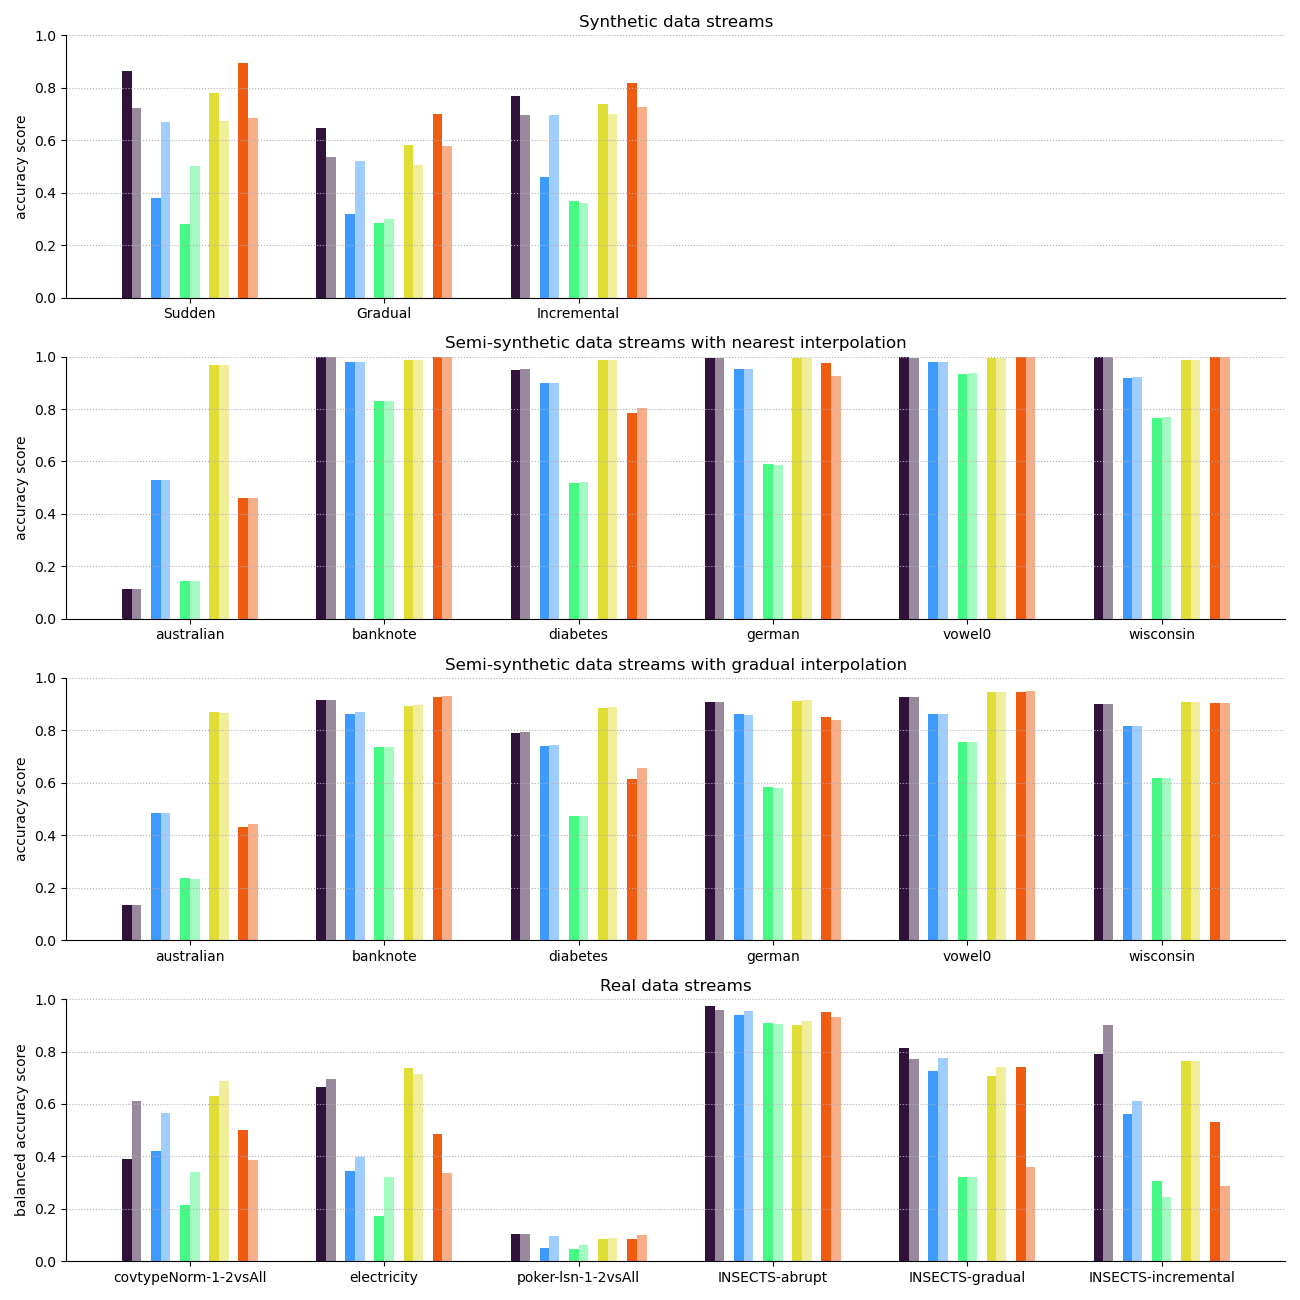
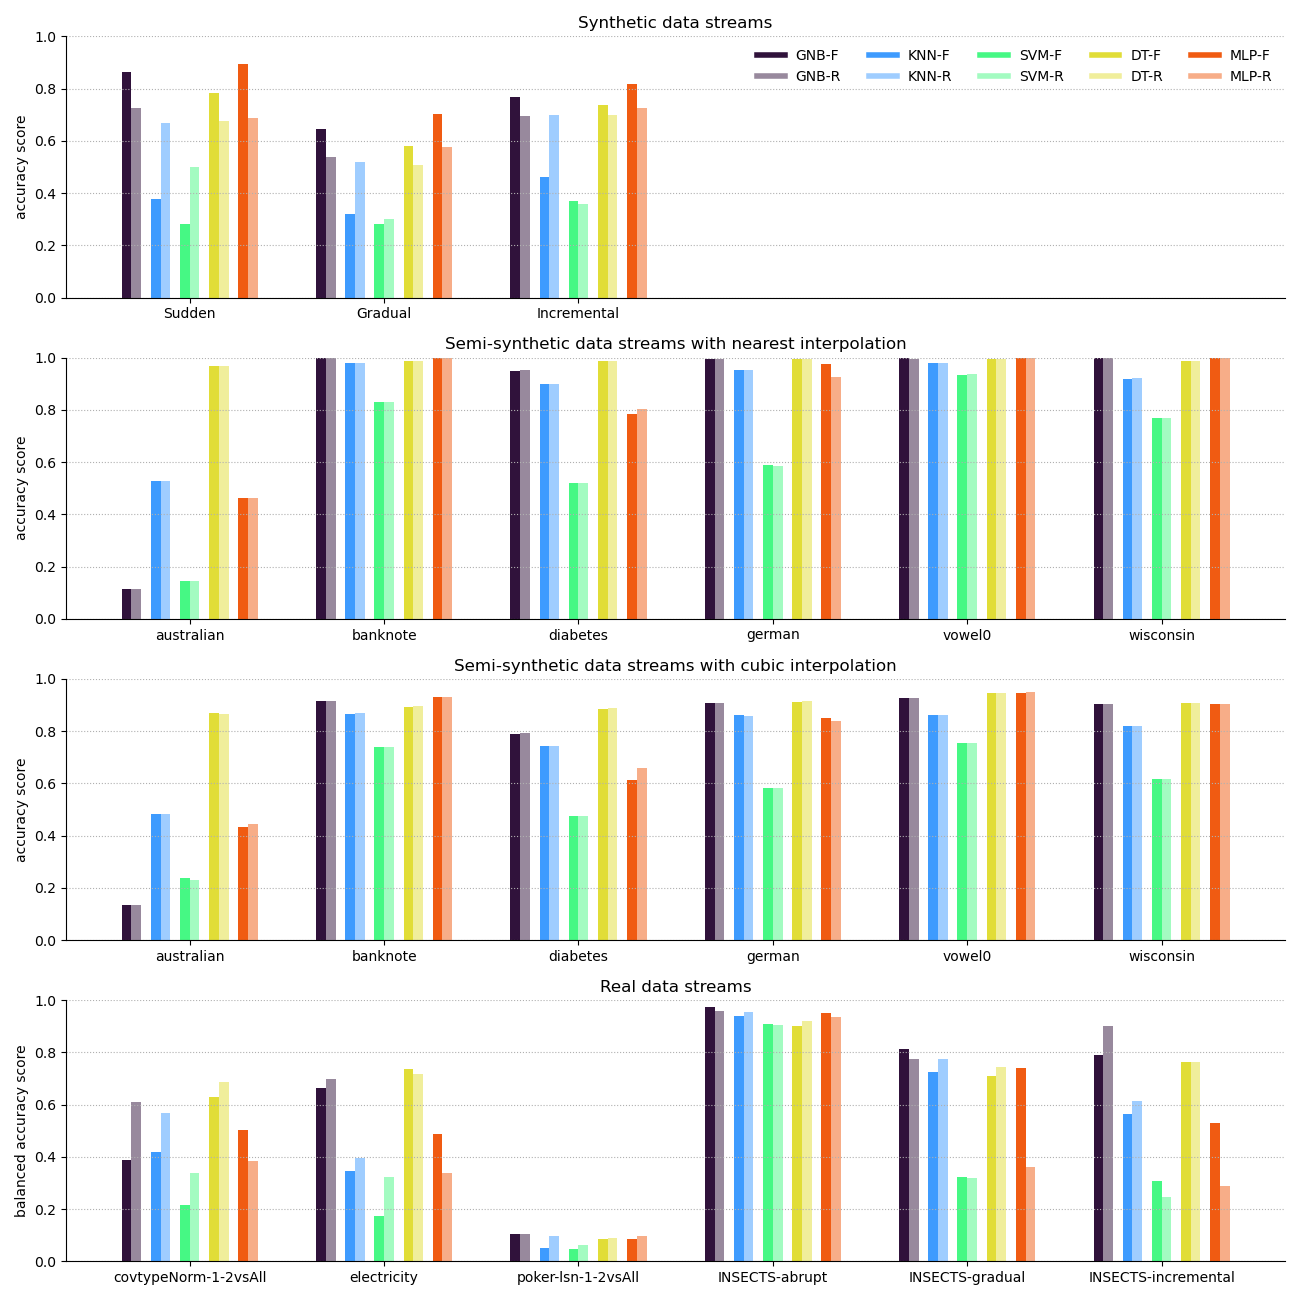
legend

diff --git a/vis_bar.py b/vis_bar.py
@@ -1,3 +1,4 @@
+from matplotlib.lines import Line2D
 import numpy as np
 import matplotlib.pyplot as plt
 
@@ -83,6 +84,15 @@ for drf_id, drift_type in enumerate(['Sudden', 'Gradual', 'Incremental']):
 
 ax[0].set_xticks([0,1,2], ['Sudden', 'Gradual', 'Incremental'])
 
+
+legend_labels=[ '%s-%s' % (bc, d) for bc in base_clfs for d in ['F', 'R']]
+legend_colors=[]
+for i in range(len(c)):
+    legend_colors.append(c[i])
+    legend_colors.append(c2[i])
+custom_lines = [Line2D([0], [0], color=legend_colors[i], lw=4) for i in range(len(legend_colors))]
+ax[0].legend(custom_lines, legend_labels, ncol=5, frameon=False)
+
 # Semi
 reduced = np.load('res_clf_cls/semi_clf_reduced.npy')
 clf = np.load('res_clf_cls/clf_sel_semi.npy')
@@ -118,7 +128,7 @@ ax[3].set_xticks([0,1,2,3,4,5], real_streams)
 # Styling
 ax[0].set_title('Synthetic data streams')
 ax[1].set_title('Semi-synthetic data streams with nearest interpolation')
-ax[2].set_title('Semi-synthetic data streams with gradual interpolation')
+ax[2].set_title('Semi-synthetic data streams with cubic interpolation')
 ax[3].set_title('Real data streams')
 ax[0].set_xlim(ax[-1].get_xlim())
 
